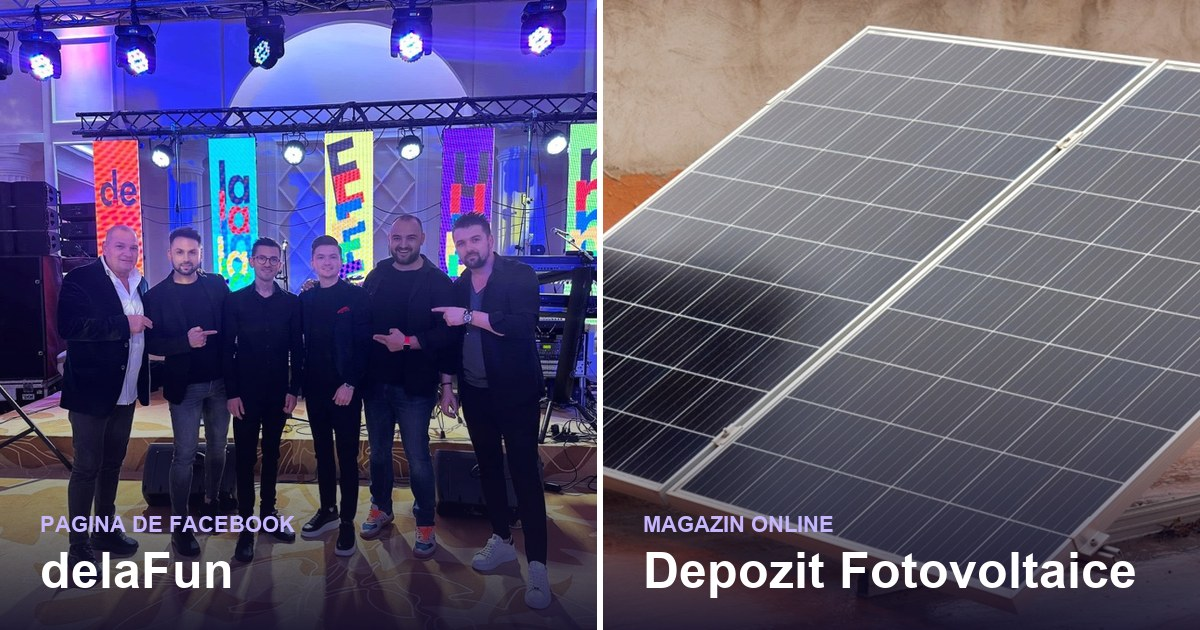
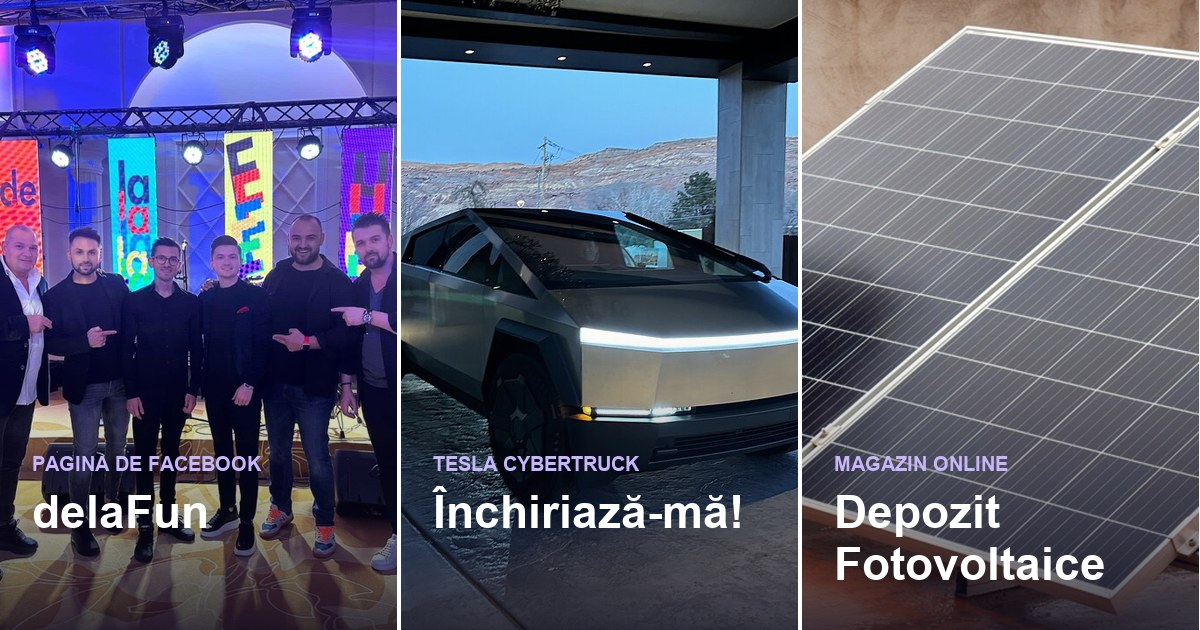
Add Cybertruck rental to OG image and meta tags
Rebuild og-image.jpg as three panels in page order (delaFun, Tesla
Cybertruck, Depozit Fotovoltaice), update product name, description,
image alt and keywords, and bump the og:image URL to ?v=2 so share
scrapers fetch the new image.

diff --git a/index.html b/index.html
@@ -5,7 +5,7 @@
 
     <meta charset="utf-8">
     <meta name="description" content="<%= productDescription %>">
-    <meta name="keywords" content="Delafun, Câmpulung, Depozit Fotovoltaice, panouri solare, fotovoltaice, baterii">
+    <meta name="keywords" content="Delafun, Câmpulung, Depozit Fotovoltaice, panouri solare, fotovoltaice, baterii, Tesla Cybertruck, închiriere Cybertruck, închiriere mașini">
     <meta name="author" content="Catalin Muresian">
     <meta name="robots" content="index, follow">
     <meta name="theme-color" content="#5b4fc4">
@@ -21,16 +21,16 @@
     <meta property="og:title" content="<%= productName %>">
     <meta property="og:description" content="<%= productDescription %>">
     <meta property="og:url" content="https://matauanu.github.io/">
-    <meta property="og:image" content="https://matauanu.github.io/og-image.jpg">
+    <meta property="og:image" content="https://matauanu.github.io/og-image.jpg?v=2">
     <meta property="og:image:width" content="1200">
     <meta property="og:image:height" content="630">
-    <meta property="og:image:alt" content="delaFun și Depozit Fotovoltaice">
+    <meta property="og:image:alt" content="delaFun, închiriere Tesla Cybertruck și Depozit Fotovoltaice">
 
     <!-- Twitter / X -->
     <meta name="twitter:card" content="summary_large_image">
     <meta name="twitter:title" content="<%= productName %>">
     <meta name="twitter:description" content="<%= productDescription %>">
-    <meta name="twitter:image" content="https://matauanu.github.io/og-image.jpg">
+    <meta name="twitter:image" content="https://matauanu.github.io/og-image.jpg?v=2">
 
     <link rel="icon" type="image/svg+xml" href="/favicon.svg">
     <link rel="icon" type="image/png" sizes="128x128" href="/icons/favicon-128x128.png">
